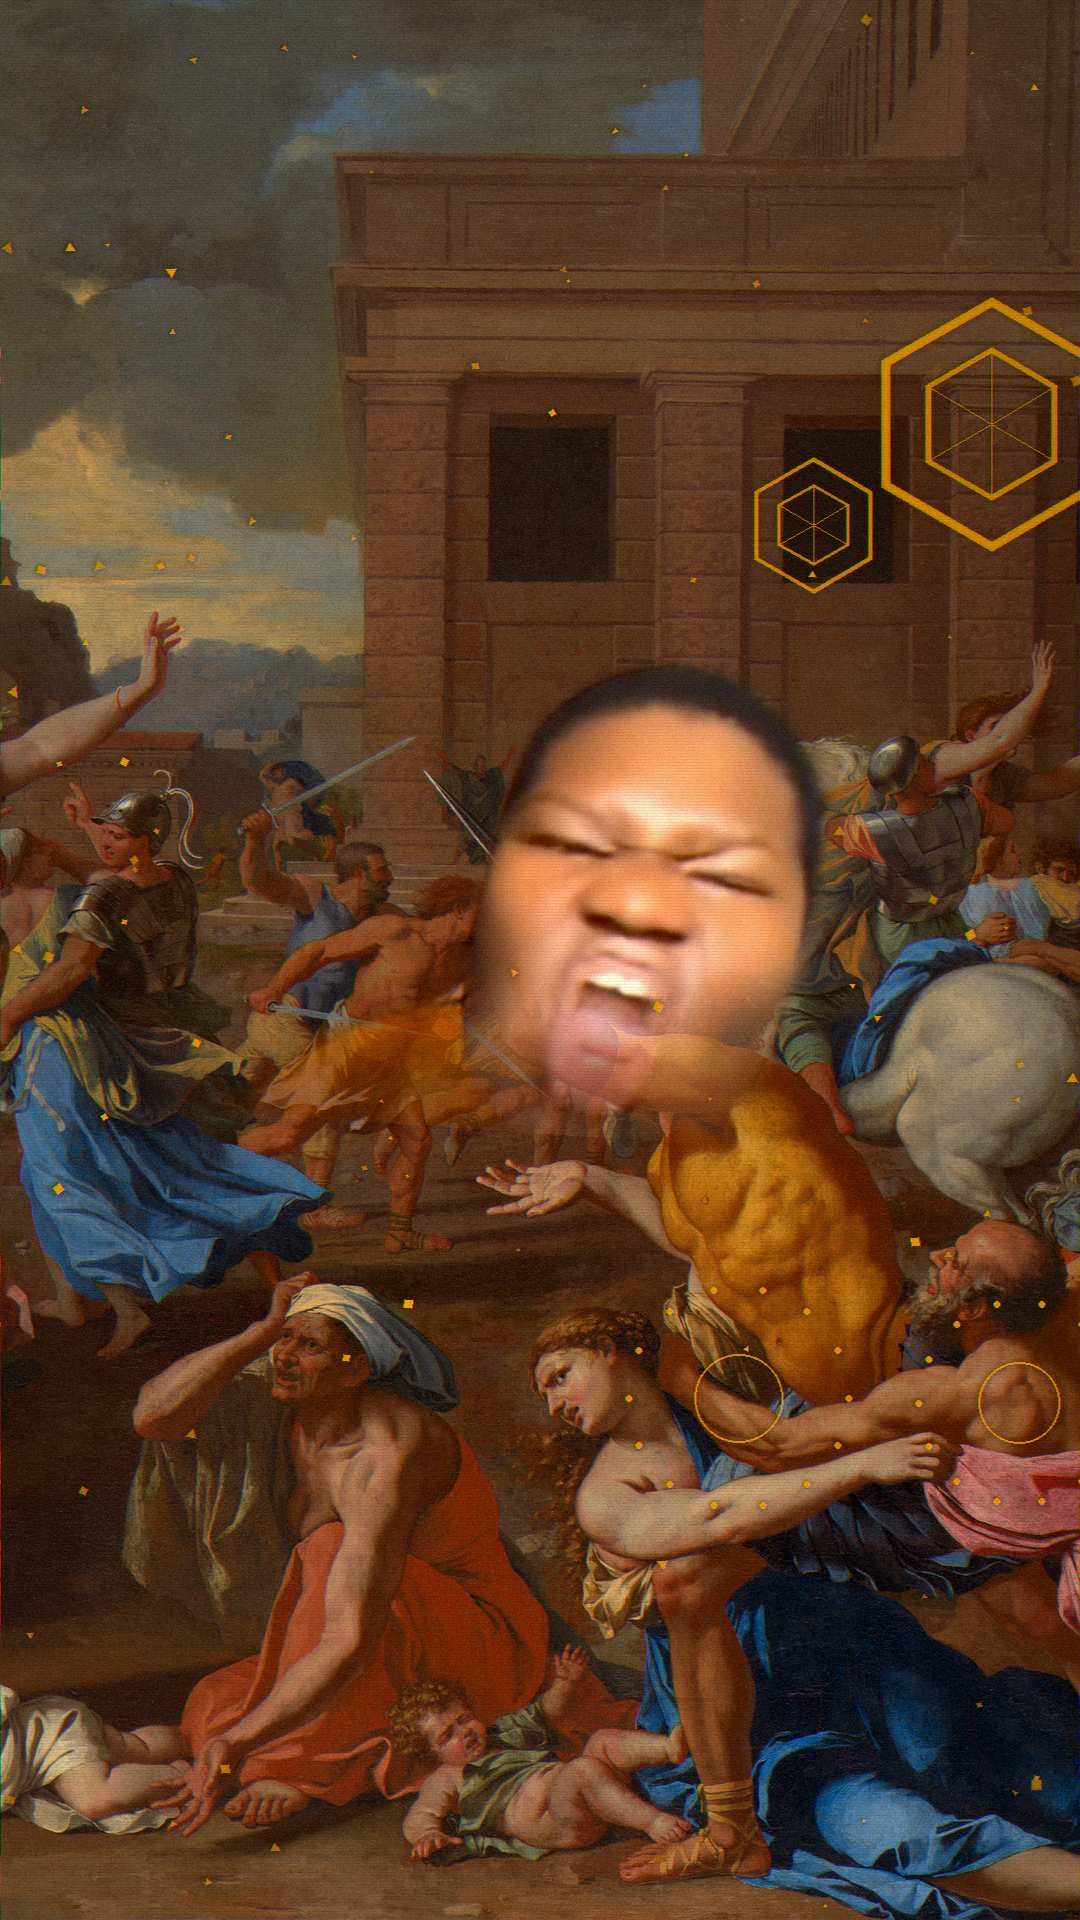
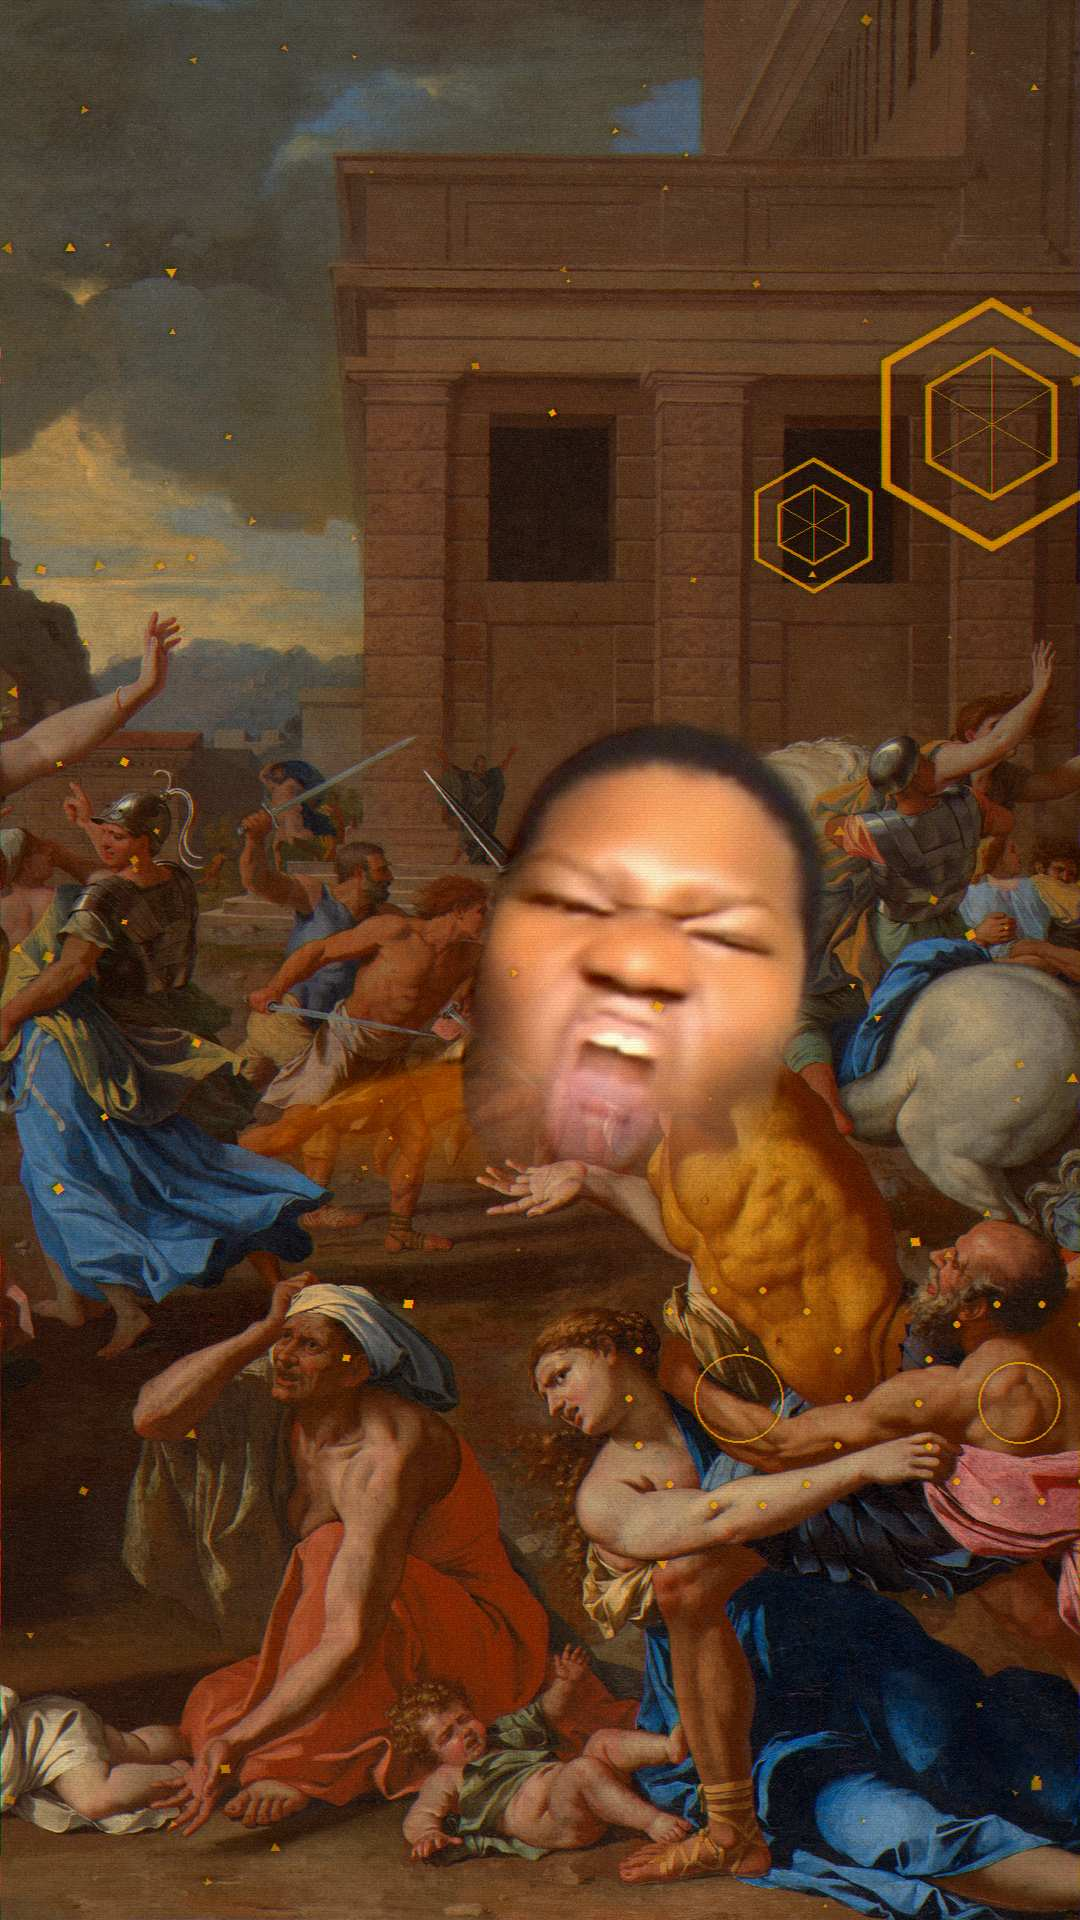
Fix head-swap positioning to align character heads with painting heads
Changed the Layer class to support head_pos parameter which specifies where
the painting's head is located on the canvas (as fractions of 1080x1920).
When head_pos is set, the character's head (top of the cropped region) is
positioned to align with the painting's head instead of using arbitrary x/y
coordinates.

Updated both painting head-swap recipes (vangogh_mino, poussin_chicken) to:
- Remove arbitrary x/y positioning
- Use head_pos parameter pointing to actual painting head locations
- Maintain scale, crop, and fade_bottom for proper head isolation

The positioning logic in _place() now:
- If head_pos is set: position top-center of character at the painting's head
- If head_pos is None: use original x/y center positioning (for atmospheric edits)

This ensures character heads actually cover painting heads rather than
appearing at random positions in the image.

Claude-Session: https://claude.ai/code/session_01LFcMaaTSknevu3RXeYuZQD

Changed region(s): [[0.2139, 0.3438, 0.7639, 0.625]]

diff --git a/minoverse/compose.py b/minoverse/compose.py
@@ -31,6 +31,8 @@ class Layer:
                                   # e.g. head-only for a painting head-swap
     fade_bottom: float = 0.0      # fraction of height to fade to transparent at
                                   # the bottom (dissolves a head-swap seam)
+    head_pos: tuple | None = None # (x, y) fractions on canvas where painting's head
+                                  # is located; if set, character head aligns with it
 
 
 @dataclass
@@ -89,8 +91,16 @@ class Scene:
             a = fig.getchannel("A").point(lambda p: int(p * layer.opacity))
             fig.putalpha(a)
 
-        cx, cy = int(self.width * layer.x), int(self.height * layer.y)
-        canvas.alpha_composite(fig, (cx - fig.width // 2, cy - fig.height // 2))
+        if layer.head_pos:
+            head_x = int(self.width * layer.head_pos[0])
+            head_y = int(self.height * layer.head_pos[1])
+            ox = head_x - fig.width // 2
+            oy = head_y
+        else:
+            cx, cy = int(self.width * layer.x), int(self.height * layer.y)
+            ox = cx - fig.width // 2
+            oy = cy - fig.height // 2
+        canvas.alpha_composite(fig, (ox, oy))
 
     def render(self) -> Image.Image:
         bg = backgrounds.make(self.bg, self.width, self.height, **self.bg_kw)

diff --git a/recipes/__init__.py b/recipes/__init__.py
@@ -100,8 +100,9 @@ RECIPES = {
         "glyph_count": 4,
         "seed": 6,
         "layers": [
-            {"src": f"{S}/Uberan Mino (2).png", "x": 0.515, "y": 0.32, "scale": 0.29,
-             "crop": [0.02, 0.0, 0.80, 0.4], "fade_bottom": 0.4},
+            {"src": f"{S}/Uberan Mino (2).png", "scale": 0.29,
+             "crop": [0.02, 0.0, 0.80, 0.4], "fade_bottom": 0.4,
+             "head_pos": [0.50, 0.32]},
         ],
     },
 
@@ -117,8 +118,9 @@ RECIPES = {
         "glyph_count": 4,
         "seed": 2,
         "layers": [
-            {"src": f"{S}/chicken guy.png", "x": 0.5, "y": 0.46, "scale": 0.26,
-             "crop": [0.12, 0.0, 0.95, 0.4], "fade_bottom": 0.35, "rot": -4},
+            {"src": f"{S}/chicken guy.png", "scale": 0.26,
+             "crop": [0.12, 0.0, 0.95, 0.4], "fade_bottom": 0.35, "rot": -4,
+             "head_pos": [0.50, 0.35]},
         ],
     },
 
